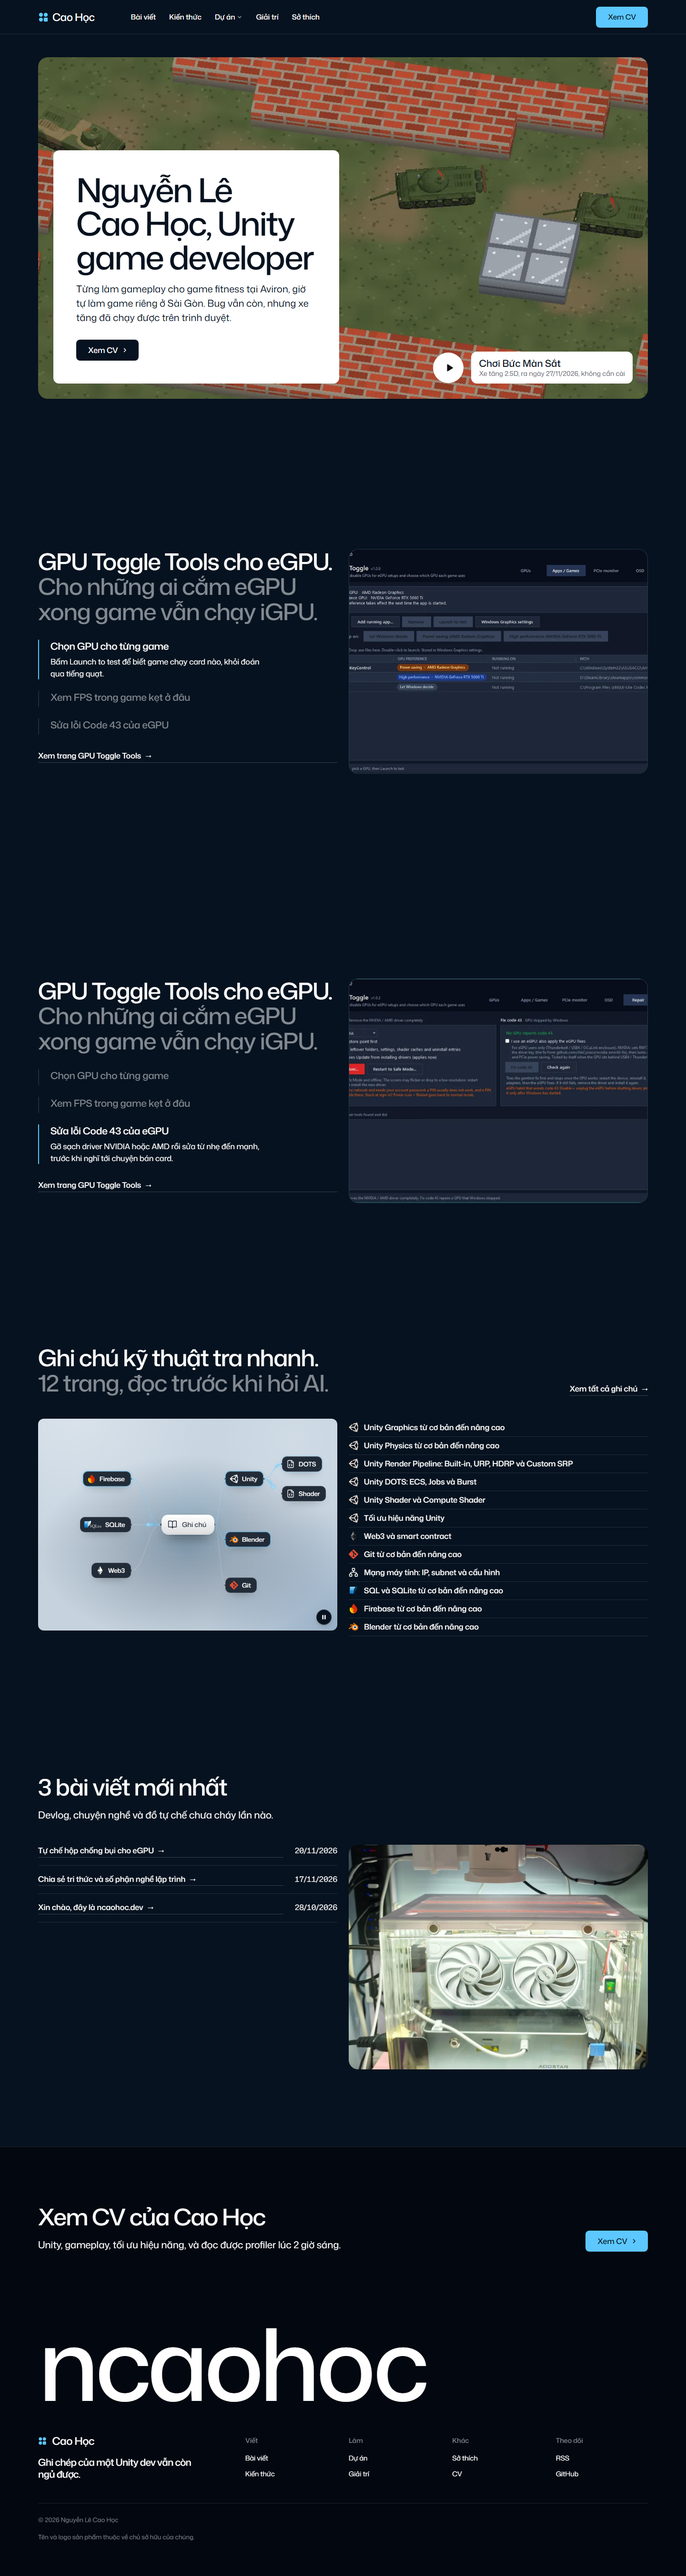
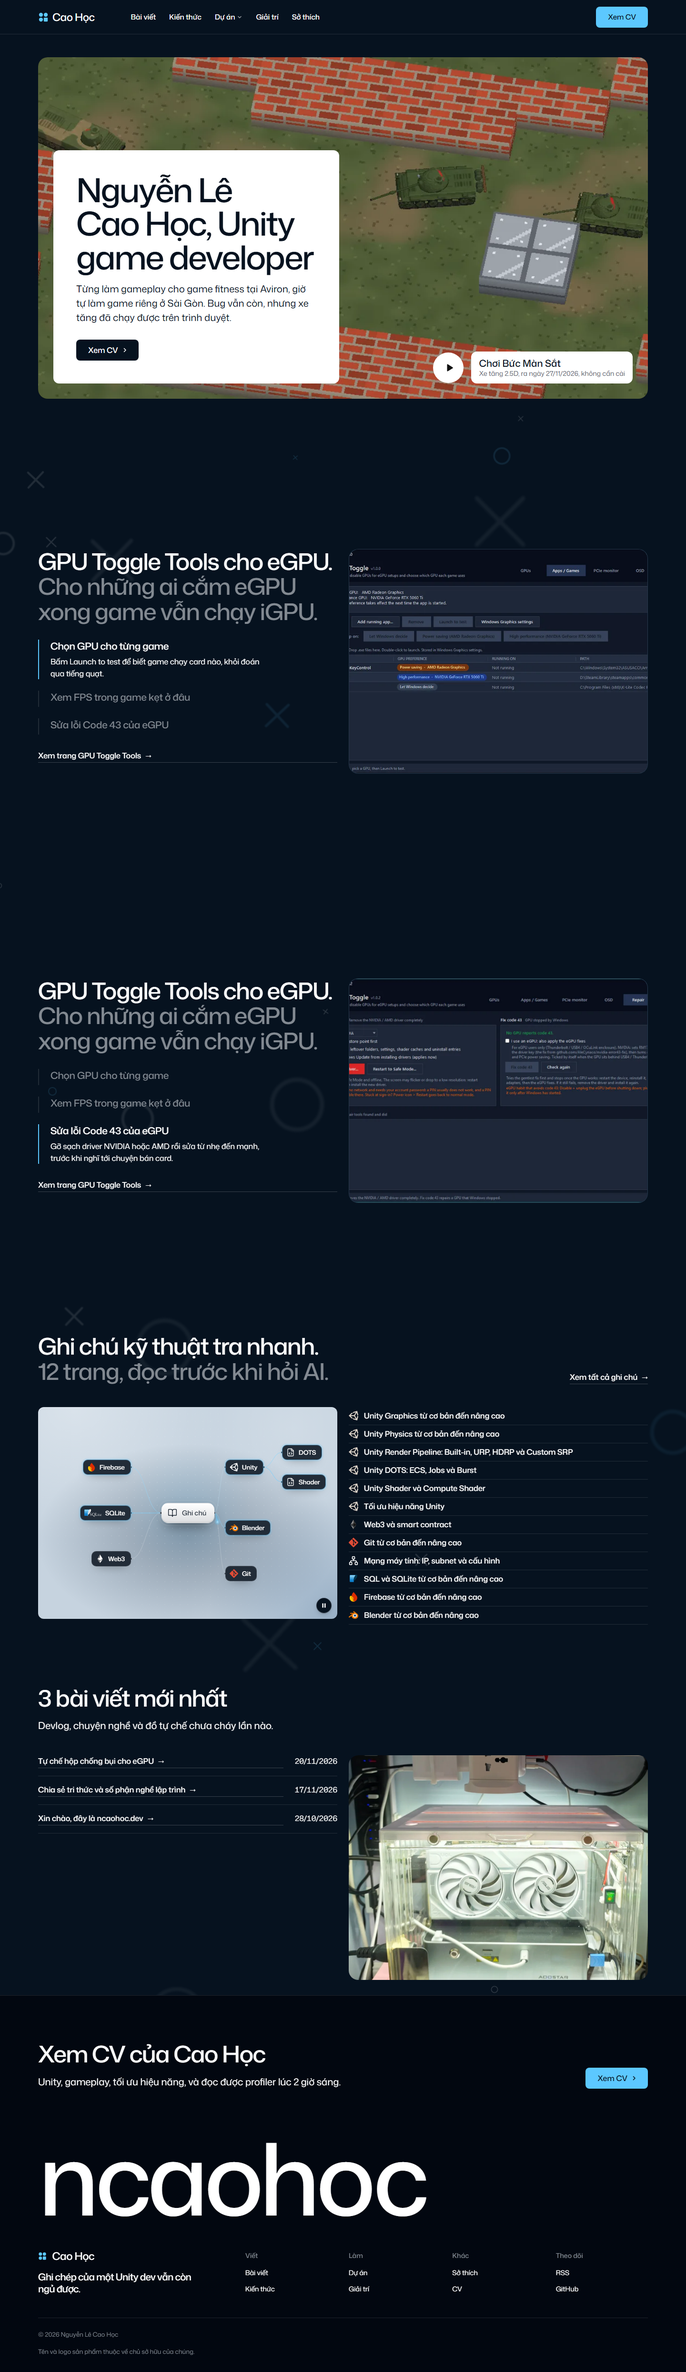
Trang chủ mới: rút ngắn khoảng giữa các section, thêm hiện dần và nền x o
- Section cao theo nội dung thay vì đúng một màn hình, khoảng đệm nhỏ hơn,
  để không phải cuộn qua các mảng trống (chủ site muốn, khác luật của skill).
- Nội dung trượt lên và hiện dần khi cuộn tới (src/lib/reveal.ts); tắt khi
  bật giảm chuyển động, không có script thì nội dung hiện sẵn.
- Nền có các ký hiệu x và o mờ, cỡ từ nhỏ đến to, càng to càng nhoè, trôi
  chậm; vị trí sinh cố định theo seed nên mỗi lần build như nhau.

diff --git a/src/lib/reveal.ts b/src/lib/reveal.ts
@@ -1,0 +1,32 @@
+// Cho các phần tử có [data-rv] trượt lên và hiện dần khi cuộn tới (mỗi phần tử một lần).
+// Không chạy khi người xem bật giảm chuyển động hoặc trình duyệt thiếu IntersectionObserver:
+// khi đó nội dung hiện sẵn, vì chỉ có class `rv-on` trên <html> mới làm chúng ẩn đi.
+export function revealOnScroll(root: ParentNode = document) {
+  if (matchMedia('(prefers-reduced-motion: reduce)').matches || !('IntersectionObserver' in window)) return;
+  const items = Array.from(root.querySelectorAll<HTMLElement>('[data-rv]'));
+  if (!items.length) return;
+
+  // Thứ tự trong cùng một nhóm cha, để các phần tử cạnh nhau hiện lệch nhau một chút
+  const seen = new Map<Element | null, number>();
+  for (const el of items) {
+    const i = seen.get(el.parentElement) ?? 0;
+    seen.set(el.parentElement, i + 1);
+    el.style.setProperty('--rv-i', String(Math.min(i, 8)));
+  }
+
+  document.documentElement.classList.add('rv-on');
+  const show = (el: Element) => el.classList.add('rv-in');
+  const io = new IntersectionObserver(
+    (entries) => {
+      for (const e of entries) {
+        // Hiện cả phần đã nằm phía trên màn hình (nhảy tới bằng anchor), để không có gì bị ẩn mãi
+        if (e.isIntersecting || e.boundingClientRect.bottom < 0) {
+          show(e.target);
+          io.unobserve(e.target);
+        }
+      }
+    },
+    { rootMargin: '0px 0px -8% 0px' },
+  );
+  items.forEach((el) => io.observe(el));
+}
